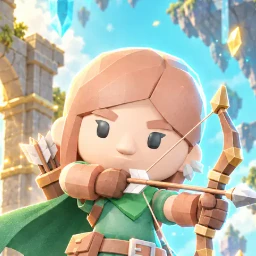
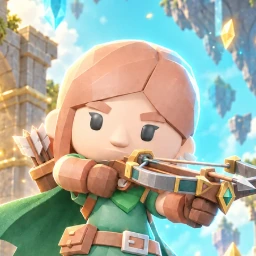
feat: pereimenoval Lunichku v Arbaletchicu, novoe lico i art

diff --git a/tools/face_cropper.html b/tools/face_cropper.html
@@ -156,7 +156,7 @@
   <div class="tabs" id="tabs">
     <button class="tab active" data-hero="warrior">Воин</button>
     <button class="tab" data-hero="mage">Маг</button>
-    <button class="tab" data-hero="archer">Лучница</button>
+    <button class="tab" data-hero="archer">Арбалетчица</button>
   </div>
 
   <main class="layout">
@@ -216,7 +216,7 @@ const IMAGES = {
 const HEROES = {
   warrior: { name: "Воин", file: "warrior_face.png" },
   mage: { name: "Маг", file: "mage_face.png" },
-  archer: { name: "Лучница", file: "archer_face.png" }
+  archer: { name: "Арбалетчица", file: "archer_face.png" }
 };
 
 const SIZE = 512;

diff --git a/tools/viewer/index.html b/tools/viewer/index.html
@@ -84,7 +84,7 @@
   <label>Герой<select id="hero">
     <option value="warrior">Воин</option>
     <option value="mage">Маг</option>
-    <option value="fairy" selected>Лучница</option>
+    <option value="fairy" selected>Арбалетчица</option>
   </select></label>
   <label>Анимация<select id="anim"></select></label>
   <label>Крылья<select id="wings">

diff --git a/tools/sound_picker/app.js b/tools/sound_picker/app.js
@@ -18,7 +18,7 @@ const SLOT_GROUPS = [
 	},
 	{
 		id: "fairy",
-		title: "Лучница",
+		title: "Арбалетчица",
 		slots: [
 			["attack", "Атака"],
 			["skill1", "Оглушающий выстрел"],

diff --git a/docs/ПРОЕКТ.md b/docs/ПРОЕКТ.md
@@ -7,7 +7,7 @@
 
 ## 1. Обзор
 
-- **Клиент:** Godot 4.7.2, рендер `forward_plus`, 3D, три героя (Воин, Маг, Лучница).
+- **Клиент:** Godot 4.7.2, рендер `forward_plus`, 3D, три героя (Воин, Маг, Арбалетчица).
 - **Режим:** PvP 1v1 / 2v2 с добивкой ботами, сбор осколков на арене.
 - **Сервер:** Go + PostgreSQL, хостинг RelaxDev.
 - **Точка входа:** `res://scenes/Lobby.tscn` (лобби → матч).
@@ -418,9 +418,9 @@ godot --headless --path . res://scenes/Lobby.tscn --quit-after 4
 
 ### Структура
 
-- **Вкладки по героям**: Лучница / Маг / Воин. Выбрал героя — видишь только его товар.
+- **Вкладки по героям**: Арбалетчица / Маг / Воин. Выбрал героя — видишь только его товар.
 - **Товар привязан к герою**:
-  - Лучница: крылья, скин, лук;
+  - Арбалетчица: крылья, скин, арбалет;
   - Маг: скин, посох;
   - Воин: скин, меч.
 - **Три крупных превью** «лучшего товара» на выбранного героя, картинка — предмет уже надет на модель.
@@ -452,7 +452,7 @@ godot --headless --path . res://scenes/Lobby.tscn --quit-after 4
 
 - Все три героя переведены на **KayKit Adventurers** (чиби): Воин — Knight, Маг — Mage, Лучница — Rogue.
 - Встроенное оружие KayKit используется как есть — отдельные модели к рукам не крепим.
-- Класс «Фея» переименован в **«Лучница»** во всём интерфейсе.
+- Класс «Фея» переименован в **«Лучница»** во всём интерфейсе (позже — в «Арбалетчицу»).
 - Новые портреты в HUD и магазине.
 - Анимации: Idle / Running_A / Walking_A / Death_A; Маг — `Spellcast_Shoot`, Лучница — `1H_Ranged_Shoot`.
 - Оружие — встроенные узлы модели (`1H_Sword`, `2H_Sword`, `2H_Staff`, `1H_Wand`, `1H_Crossbow`, `2H_Crossbow`), поэтому сидит ровно.
@@ -511,11 +511,11 @@ godot --headless --path . res://scenes/Lobby.tscn --quit-after 4
 
 ## 17. Новые карточки героев — 16.11.2026
 
-- В лобби карточки героев переведены на 2D key art: Воин, Маг, Лучница.
+- В лобби карточки героев переведены на 2D key art: Воин, Маг, Арбалетчица.
 - Файлы: `assets/ui/heroes/warrior_keyart.webp`, `mage_keyart.webp`, `archer_keyart.webp` — 768×1024, ~95 КБ каждый.
 - Из этих же артов сделаны квадратные кропы лиц 256×256: `warrior_face.webp`, `mage_face.webp`, `archer_face.webp`.
 - Лица используются в аватаре лобби, HUD в бою и слотах поиска матча.
-- В поиске матча класс «Фея» переименован в «Лучница».
+- В поиске матча класс «Фея» переименован в «Лучница» (позже — в «Арбалетчицу»).
 - Старые портреты `ui/portraits/*` оставлены для вкладок магазина и меню игрока.
 - 3D-превью героя в меню игрока пока не трогали.
 - Фон лобби и светлая тема пока не менялись — сначала только карточки.
@@ -557,3 +557,13 @@ godot --headless --path . res://scenes/Lobby.tscn --quit-after 4
 - Оптимизация теней: 2 каскада вместо 4, дальность теней 90 м вместо 120; тени отключены у деревьев, камней, лесной стены, факелов, знамён, свечей и кустов. Тени колонн, героев и крупных объектов сохранены.
 - Замер на базе: draw calls 460 → 174, объектов 1500 → 1169, память 126 → 114 МБ. В бою с VFX — около 390 draw calls, 57–60 FPS на текущем ПК.
 - Эксперимент с MultiMesh-батчингом декора пробовали и откатили: из-за общего AABB пропадали отдельные деревья на краях кадра. В код не вошёл.
+
+---
+
+## 21. Лучница → Арбалетчица — 17.11.2026
+
+- Класс переименован в **«Арбалетчица»** во всём интерфейсе: лобби, выбор класса, HUD, поиск матча, экран результатов, загрузка, магазин.
+- Новый key art: `assets/ui/heroes/archer_keyart.webp` — чиби-арбалетчица на небесной арене, в зелёной тунике, с арбалетом.
+- Новое лицо: `assets/ui/heroes/archer_face.webp` 256×256, вырезано из нового арта.
+- Старые арт и лицо с луком сохранены в `backups/archer_keyart_bow.webp` и `backups/archer_face_bow.webp`.
+- Вкладка магазина героя и экран результатов используют новый арт; внутренние ключи `fairy` и папки ассетов не менялись, чтобы не ломать сохранения.

diff --git a/.summer/GameSoul.md b/.summer/GameSoul.md
@@ -23,7 +23,7 @@
 ## Vision
 Три игрока против трёх на обломках небесного храма, висящего над пропастью. Каждый матч длится пять минут, цель одна: разбить охранника-Оболочку, подобрать кристалл и дотащить его на базу раньше, чем это сделает враг. Простая задача, но носитель кристалла замедлен, Оболочка бьёт молниями, а противник уже бежит с другого фланга.
 
-Игра про чёткие решения в сжатое время. Иди к кристаллу сейчас или защищай того, кто уже несёт. Воин врывается и оглушает, Маг держит щит и лечит, Лучница выбивает противника на расстоянии. Когда трое делают это одновременно и слаженно, всё складывается в одно движение. Когда нет, кристалл роняют посреди карты, и начинается хаос.
+Игра про чёткие решения в сжатое время. Иди к кристаллу сейчас или защищай того, кто уже несёт. Воин врывается и оглушает, Маг держит щит и лечит, Арбалетчица выбивает противника на расстоянии. Когда трое делают это одновременно и слаженно, всё складывается в одно движение. Когда нет, кристалл роняют посреди карты, и начинается хаос.
 
 ## Genre and Style
 
@@ -47,7 +47,7 @@
 
 Компактная миникарта размером 160×110 расположена внизу по центру; собственная база всегда снизу, союзники зелёные, видимые противники красные, магазин и фонтан обозначены золотыми значками, а носитель Осколка выделен золотым кольцом.
 
-Три класса, одна команда. Воин идёт вперёд и держит удар, Маг держит команду живой и контролирует пространство лозами, Лучница работает с дистанции и выбивает цели оглушением. Новичок не умирает мгновенно: персонажи живучие, респавн короткий, урон Оболочки терпимый.
+Три класса, одна команда. Воин идёт вперёд и держит удар, Маг держит команду живой и контролирует пространство лозами, Арбалетчица работает с дистанции и выбивает цели оглушением. Новичок не умирает мгновенно: персонажи живучие, респавн короткий, урон Оболочки терпимый.
 
 Руины небесного храма на парящих островах. Три пути между базами. Светлая половина цветёт, тёмная скручена и затянута туманом. В центре, на открытой площадке с алтарём, появляется Оболочка. Деревья и колонны блокируют физические снаряды и взгляд, но не магию.
 

diff --git a/tools/sound_picker/README.md b/tools/sound_picker/README.md
@@ -65,7 +65,7 @@ python -m http.server 8081
 | Класс | `skill1` | `skill2` | `ult` |
 |---|---|---|---|
 | Воин | Теневой рывок | Жажда крови | Крик ужаса (ульта) |
-| Лучница | Оглушающий выстрел | 100% Крит | Золотое благословение (ульта) |
+| Арбалетчица | Оглушающий выстрел | 100% Крит | Золотое благословение (ульта) |
 | Маг | Лозы | Исцеление | Грозовой шквал (ульта) |
 
 Отдельного `skill3` нет: четвёртой способности в игре не существует. Если в старом сохранении остался `skill3`, инструмент его игнорирует.

diff --git a/README.md b/README.md
@@ -19,7 +19,7 @@
 
 ## Правила матча
 
-- выбор класса в начале: Воин, Маг, Лучница; остальные слоты занимают боты;
+- выбор класса в начале: Воин, Маг, Арбалетчица; остальные слоты занимают боты;
 - Оболочка пробуждается у алтаря, предупреждение 10 секунд, окно на убийство 45 секунд;
 - после гибели Оболочки падает осколок: подбери его и донеси в круг своей базы;
 - первый, кто принёс три осколка, побеждает; матч длится 5 минут;
